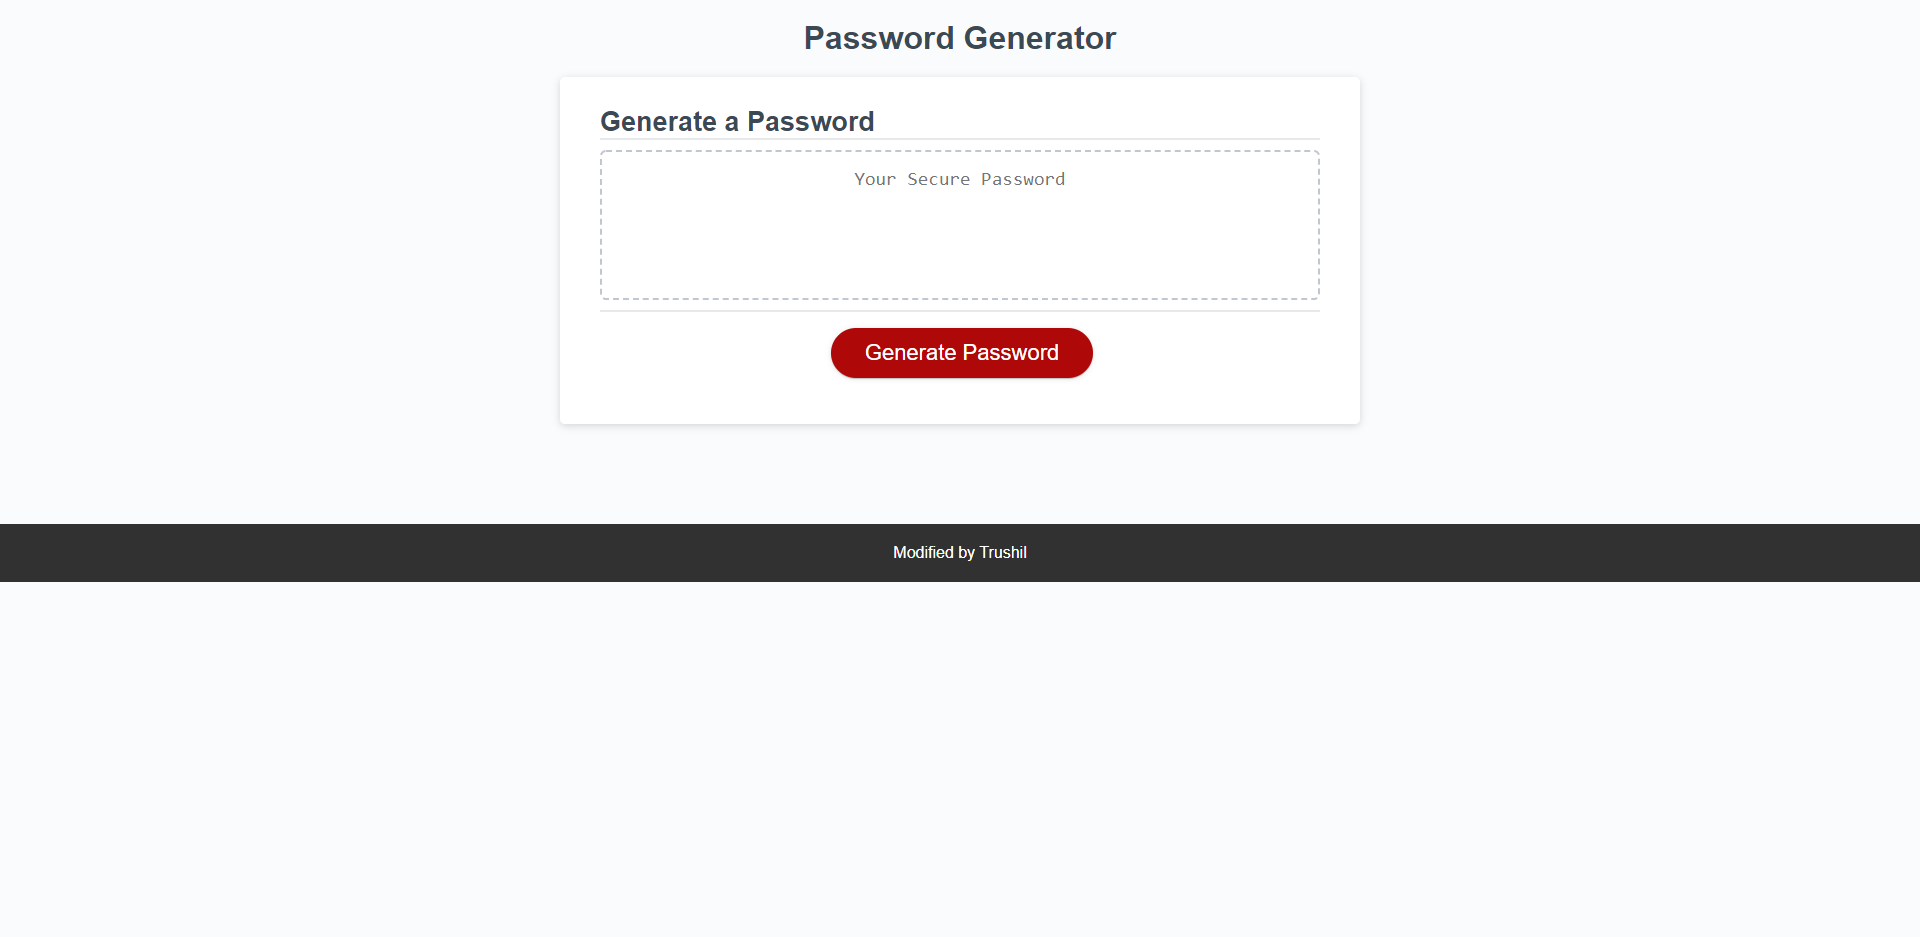
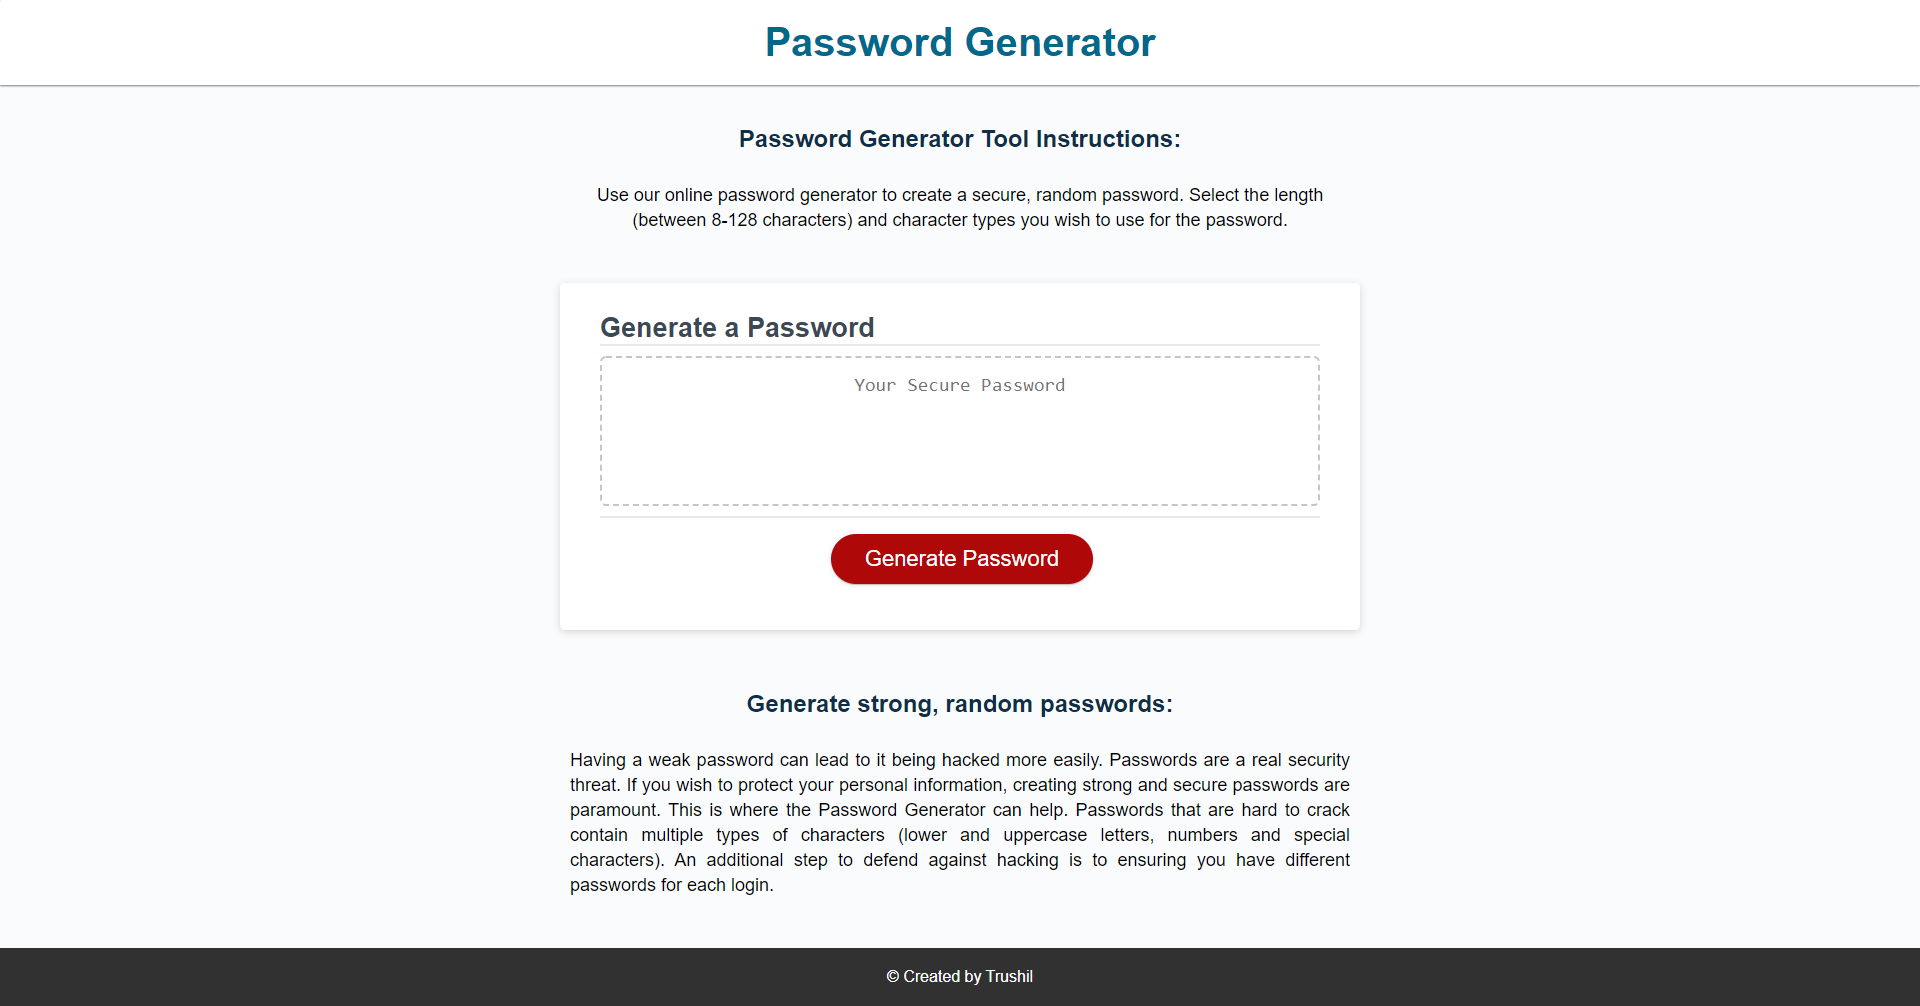
Updated the index.html, renamed the script.js to password-generator.js and added a second js file called design.js to handle the design and layout of the web page.

diff --git a/assets/js/password-generator.js b/assets/js/password-generator.js
@@ -1,0 +1,104 @@
+// Assignment Code
+// Declaring variables and assigning each variable an array value
+var characterArray = [];
+var lowercaseChar = ["a","b","c","d","e","f","g","h","i","j","k","l","m","n","o","p","q","r","s","t","u","v","w","x","y","z"];
+var uppercaseChar = ["A","B","C","D","E","F","G","H","I","J","K","L","M","N","O","P","Q","R","S","T","U","V","W","X","Y","Z"];
+var numberChar = ["0", "1","2","3","4","5","6","7","8","9"];
+var specialChar = [" ", "!", "\"", "#", "$", "%", "&", "'", "(", ")", ".", "@", "_", "*", "+", ",", "-", "/", ":", ";", "<", "=", ">", "?", "[", "\\", "]", "^", "`", "{", "|", "}", "~"];
+
+var lowercaseUse;
+var uppercaseUse;
+var numberUse;
+var specialUse;
+
+// Assigning a value to generateBtn - selecting the #generate id
+var generateBtn = document.querySelector("#generate");
+
+// Write the generated password to the #password id
+// With the returned passwordValue value, it assigns it to the variable password. The value of password is then assigned to passwordText which is selecting the #password id
+function writePassword() {
+  var password = generatePassword();
+  var passwordText = document.querySelector("#password");
+  passwordText.value = password;
+}
+
+// Creating a function object to generate the randomized password with the specified criteria from the user
+var generatePassword = function() {
+  // Declaring the passwordValue variable and setting the value to blank
+  var passwordValue = "";
+
+  // Prompting the user to enter the password length
+  var passwordLength = parseInt(prompt("Enter the length of the password (between 8-128 characters):"));
+
+  // Using a while statement to analyse the users length input - if the value does not meet the criteria, an error message is displayed and the user is returned to the start of the process
+  while (passwordLength < 8 || passwordLength > 128 || passwordLength === NaN || passwordLength === null || typeof(passwordLength) != "number" ) {
+    alert("Password length does not meet the criteria (between 8-128 characters). Try again");
+    generatePassword();
+  };
+  
+  // passwordCriteria() function is invoked and the confirm messages are prompted
+  passwordCriteria();
+
+  // A message that displays when none of the password character type criteria is selected
+  // Invokes the function passwordCriteria() again to reconfirm with the user what character types they wish to select
+  while (!lowercaseChar && !uppercaseChar && !numberChar && !specialChar) {
+    alert("You must select at least one character type");
+    passwordCriteria();
+  }
+
+  // Using if statements to check whether the specific character type is selected and changes the value of the relevant variable if they are
+  if (lowercaseUse) {
+    characterArray.push(lowercaseChar);
+  }
+  if (uppercaseUse) {
+    characterArray.push(uppercaseChar);
+  }
+  if (numberUse) {
+    characterArray.push(numberChar);
+  }
+  if (specialUse) {
+    characterArray.push(specialChar);
+  }
+
+  // Declaring the characters variable and assigning it a value of the relevant characters used across the different character types chosen by the user
+  //var characters = lowercaseValue + uppercaseValue + numberValue + specialValue;
+
+  // Using a for loop and Math random code to randomize the password which is then assigned to the passwordValue variable
+  for(var i = 0; i < passwordLength; i++) {
+    var charArrayNumber;
+    var selectedCharArray;
+    var randomCharNumber;
+    var randomChar;
+
+    // Generates a random number based on the characterArray length - between 0-3 in this case. 
+    charArrayNumber = parseInt(Math.floor(Math.random()*characterArray.length)); 
+
+    // Uses the number arrived at in charArrayNumber to index the character type stored in the characterArray - either lowercase(0), uppercase(1), numbers(2) or special characters(3).  
+    selectedCharArray = characterArray[charArrayNumber];
+
+    // Generates a random number based on the selected character type array length - either 0-25 (for lowercase or uppercase), 0-9 (for numbers) or 0-32 (for special characters)
+    randomCharNumber = Math.floor(Math.random()*selectedCharArray.length);
+
+    // Uses the number arrived at in randomCharNumber to index the value stored in the selectedCharArray
+    randomChar = selectedCharArray[randomCharNumber];
+    
+    // Each time the loop runs, the random character is added to the passwordValue until the passwordLength specified by the user is reached
+    passwordValue += randomChar;
+  }
+
+  // Returns the passwordValue variable with the updated value
+  return passwordValue;
+}
+
+// Creating a function object that prompts confirm messages for the different character types desired for the password
+var passwordCriteria = function() {
+  lowercaseUse = confirm("Do you want lowercase letters in your password?");
+  uppercaseUse = confirm("Do you want uppercase letters in your password?");
+  numberUse = confirm("Do you want numbers in your password?");
+  specialUse = confirm("Do you want special characters in your password?");
+
+}
+// Add event listener to the #generate button id - when the mouse is clicked on the button, the writePassword() function runs
+generateBtn.addEventListener("click", writePassword);
+
+// TODO

diff --git a/assets/js/design.js b/assets/js/design.js
@@ -1,0 +1,63 @@
+/* ADDING HTML ELEMENTS */
+
+/// Declaring variables and assigning values of an element selected to them
+var body = document.body;
+var wrapperSelect = body.children[0];
+var headerSelect = document.querySelector('header');
+var mainSelect = document.querySelector('main');
+
+// Creating and appending a FOOTER to the wrapper class in the body section of the document
+var footerSection = document.createElement('footer');
+footerSection.textContent = "© Created by Trushil";
+wrapperSelect.appendChild(footerSection);
+
+// Creating and appending a section with instructions - before the main section
+var instructionSection = document.createElement('section');
+wrapperSelect.insertBefore(instructionSection, mainSelect);
+
+var instructionHeader = document.createElement('h2');
+instructionHeader.textContent = "Password Generator Tool Instructions:";
+instructionSection.appendChild(instructionHeader);
+
+var instructionText = document.createElement('p');
+instructionText.textContent = "Use our online password generator to create a secure, random password. Select the length (between 8-128 characters) and character types you wish to use for the password.";
+instructionSection.appendChild(instructionText);
+
+// Creating and appending a section with information on passwords - before the footer section
+var informationSection = document.createElement('section');
+wrapperSelect.insertBefore(informationSection, footerSection);
+
+var infoHeader = document.createElement('h2');
+infoHeader.textContent = "Generate strong, random passwords:";
+informationSection.appendChild(infoHeader);
+
+var informationText = document.createElement('p');
+informationText.textContent = "Having a weak password can lead to it being hacked more easily. Passwords are a real security threat. If you wish to protect your personal information, creating strong and secure passwords are paramount. This is where the Password Generator can help. Passwords that are hard to crack contain multiple types of characters (lower and uppercase letters, numbers and special characters). An additional step to defend against hacking is to ensuring you have different passwords for each login.";
+informationSection.appendChild(informationText);
+
+// CHANGING THE STYLE PROPERTIES
+
+// Declaring variable and assigning it a value - selects the btn class
+// Changes the outline style to none
+var buttonStyle = document.getElementsByClassName('btn');
+buttonStyle[0].style.outline = "none";
+
+// Removing the padding in the wrapper class
+wrapperSelect.setAttribute('style', 'padding: 0px')
+
+// Adding styling to the HEADER element
+headerSelect.setAttribute('style', 'background: #fff; box-shadow: 0 1px 2px 0 rgb(0 0 0 / 50%); color: #00688B; font-size: 20px;');
+
+// Adding styling to the instructions section
+instructionHeader.setAttribute('style', 'color: #0F2F48; margin: 0 auto; margin-top: 20px; padding: 20px; text-align: center;');
+instructionText.setAttribute('style', 'font-size: 18px; line-height: 1.4; margin: 0 auto; padding: 10px; text-align: center; max-width: 800px;');
+
+// Adding styling to the MAIN element
+mainSelect.setAttribute('style', 'margin-bottom: 40px; margin-top: 40px;');
+
+// Adding styling to the information section
+infoHeader.setAttribute('style', 'color: #0F2F48; margin: 0 auto; margin-top: 20px; padding: 20px; text-align: center;');
+informationText.setAttribute('style', 'font-size: 18px; line-height: 1.4; margin: 0 auto; margin-bottom: 40px; padding: 10px; text-align: justify; max-width: 800px;');
+
+// Adding the styling to the FOOTER element
+footerSection.setAttribute('style', 'background: #313131; color: #fff; margin: 0 auto; padding: 20px; text-align: center; width: 100%;');

diff --git a/index.html b/index.html
@@ -34,6 +34,9 @@
       </main>
       <!-- END MAIN CARD SECTION -->
     </div>
-    <script src="script.js"></script>
+    <!-- Password Generator script - inside a subdirectory called js, which is in a subdirectory called assets, inside the current directory -->
+    <script src="./assets/js/password-generator.js"></script>
+    <!-- Design modification script - inside a subdirectory called js, which is in a subdirectory called assets, inside the current directory -->
+    <script src="./assets/js/design.js"></script>
   </body>
 </html>

diff --git a/README.md b/README.md
@@ -2,11 +2,13 @@
 
 ## Description
 
-An application that enables a person to generate a random password based on criteria they have selected.
+An application that enables the user to generate a random password based on criteria they have selected.
 
 The user can select the length of the password and whether it includes lower case, upper case, number and/or special characters. At least one character type needs to be selected in order for a password to be generated.
 
-Once the prompts are answered, the randomized password will be display in the web page following the criteria the user has selected.
+The password length needs to be between 8-128 characters.
+
+Once the prompts are answered and the information verfied, the randomized password will be display in the web page based on the criteria the user has selected.
 
 ## Link
 
